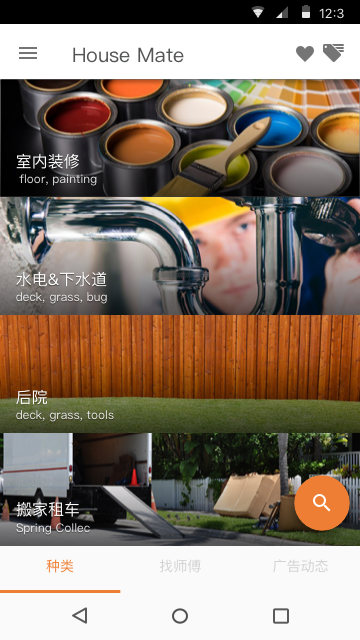
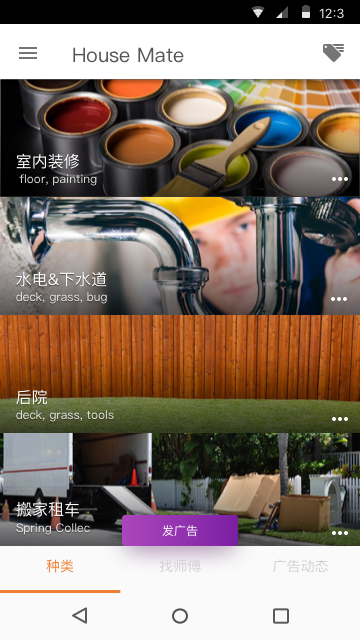
home page

diff --git a/plumper-boards.md b/plumper-boards.md
@@ -36,3 +36,8 @@ This is an autogenerated file showing all the artboards. Do not edit it directly
 
 ![Material](./.exportedArtboards/plumper/Material)
 
+
+## more-horiz
+
+![more-horiz](./.exportedArtboards/plumper/more-horiz.png)
+
